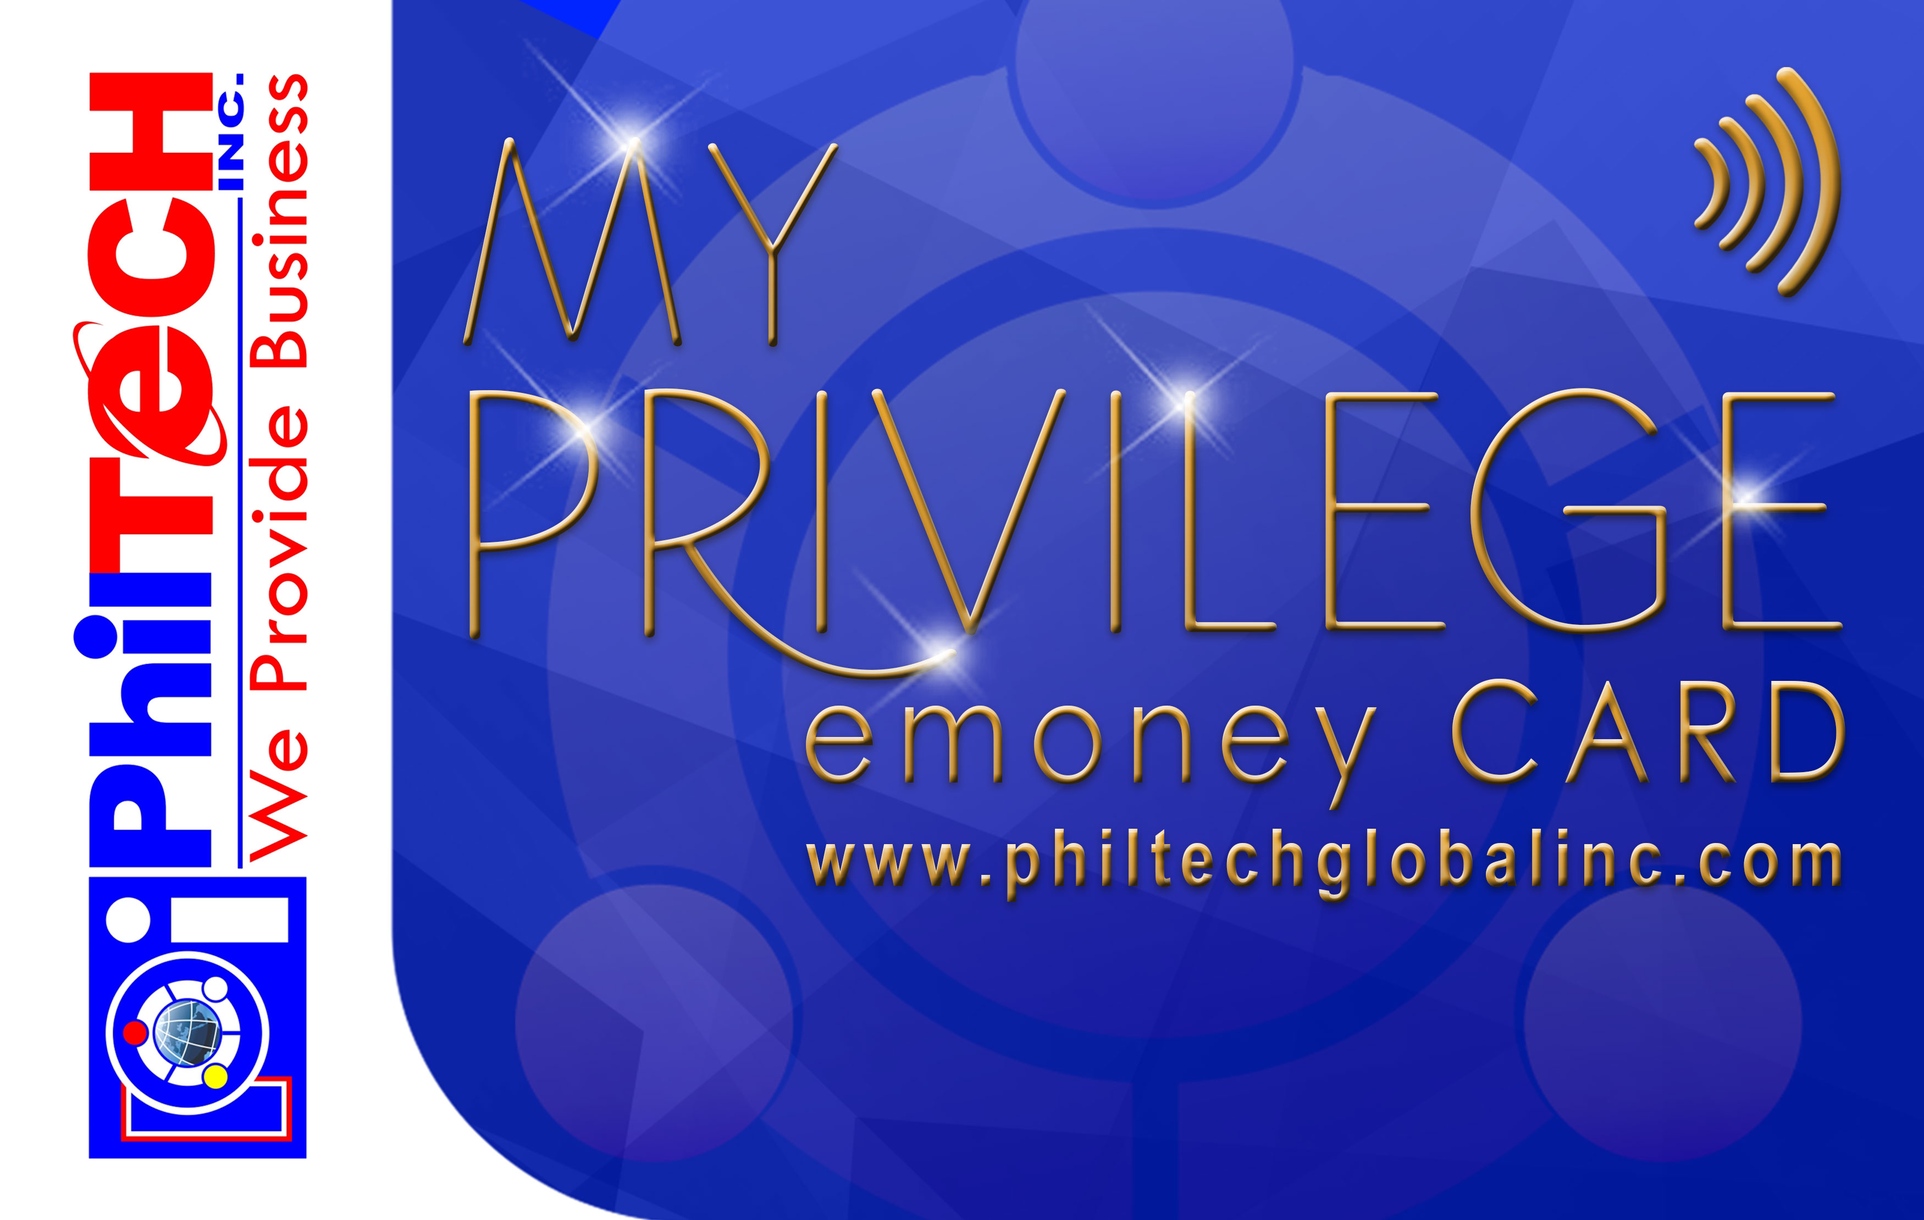
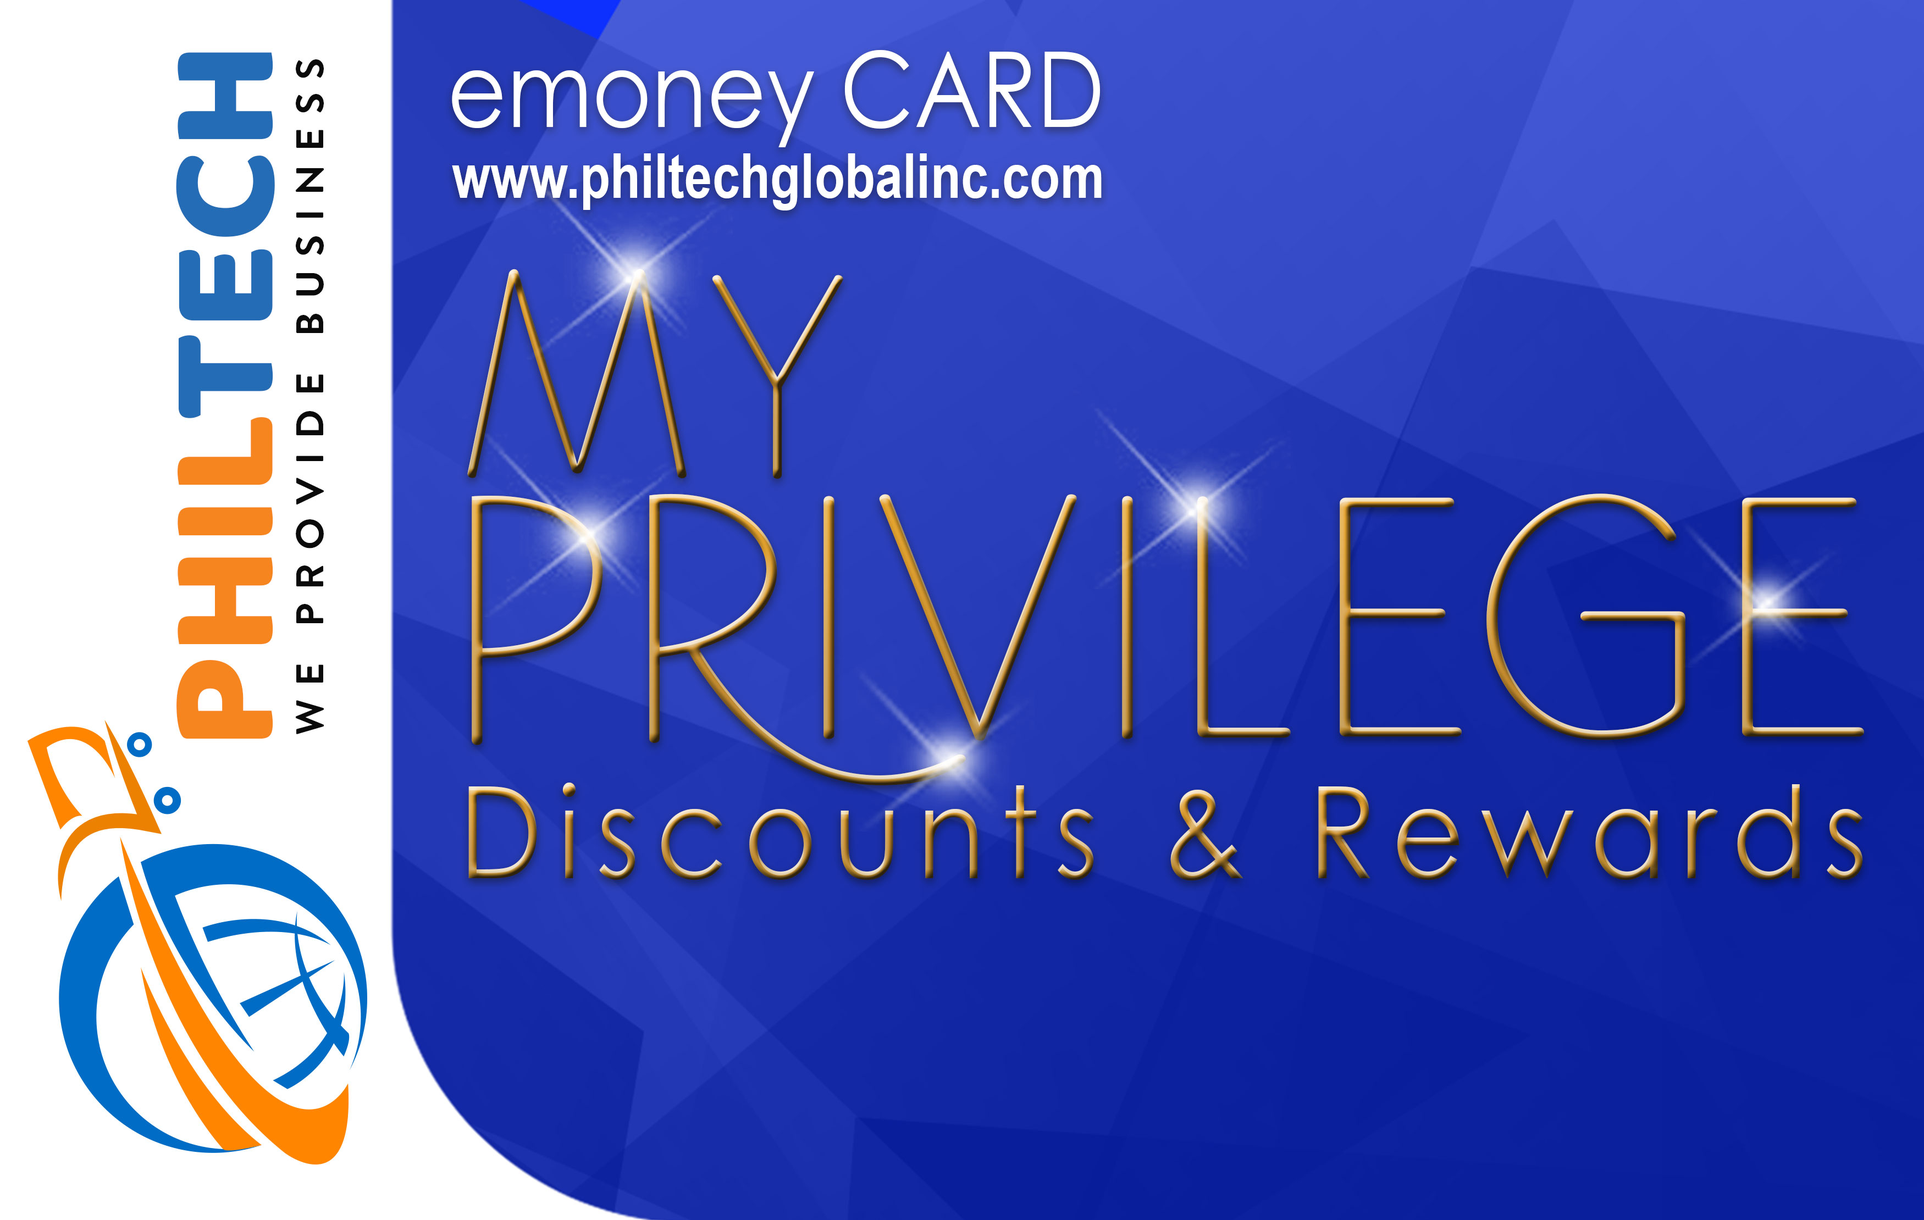
Privilege Done

diff --git a/resources/views/member/card/discount_card.blade.php b/resources/views/member/card/discount_card.blade.php
@@ -1,0 +1,188 @@
+<link rel="stylesheet" type="text/css" href="{{Request::input('pdf') == 'true' ? public_path() : ''}}/assets/card/style.css">
+<link href="https://fonts.googleapis.com/css?family=Poppins:300,600" rel="stylesheet"> 
+<div class="{{ Request::input('pdf') == 'true' ? '' : 'row' }} clearfix">
+
+{{-- <div class="{{ Request::input('pdf') == 'true' ? '' : 'col-md-6' }} clearfix" style="{{ Request::input('pdf') == 'true' ? 'margin-top: 450px;' : '' }}">
+	<div class="containers" style="overflow: hidden; {{ Request::input('pdf') == 'true' ? '-webkit-transform: scale(5,5); transform: scale(5,5);' : '' }} ;height: 276px; background-color: transparent; background-image: url('{{Request::input('pdf') == 'true' ? URL::to('/') : ''}}/assets/card/images/BG-{{ $color }}_2.jpg') !important;">
+		<div class="top-container clearfix">
+			<span class="website">{{ URL::to('/') }}</span>
+			<div class="logo"><img style="width: 200px;" src="{{Request::input('pdf') == 'true' ? public_path() : ''}}/assets/card/images/philtech-logo.png"></div>
+		</div>
+		<div class="mid-container clearfix" style="margin: 0; height: 149px;"><img style="display: block; width: 380px; margin-left: 15px;" src="{{Request::input('pdf') == 'true' ? public_path() : ''}}/assets/card/images/{{ $color }}-logo.png"></div>
+		<div class="bottom-container clearfix" style="margin-top: -7.5px;">
+			<div class="member" style="width: 65% !important">
+				<div class="member-label" style="padding: 0; font-weight: 400; font-size: 13px !important; ">Discount Card No.</div>
+				<div class="member-name">{{ $membership_code }}</div>
+			</div>
+			<div class="barcode">
+				<div class="barcodeimg" style="background-color: #fff; padding: 7.5px 0;"><img src="{{Request::input('pdf') == 'true' ? URL::to('/') : ''}}/barcode?text={{ $membership_code }}&size=35"></div>
+				<div class="barcodetxt" style="font-size: 8px; margin-top: -5px; padding-bottom: 5px;">
+					<span>Membership Code</span>
+					<span>{{ $membership_code }}</span>
+				</div>
+			</div>
+		</div>
+	</div>
+</div> --}}
+<div class="{{ Request::input('pdf') == 'true' ? '' : '' }} clearfix" style="{{ Request::input('pdf') == 'true' ? 'margin-top: 450px;' : '' }}">
+	<div class="containers" style="overflow: hidden; {{ Request::input('pdf') == 'true' ? '-webkit-transform: scale(5,5); transform: scale(5,5);' : 'margin-top: 0;' }} ;height: 276px; background-color: transparent; background-image: url('{{Request::input('pdf') == 'true' ? URL::to('/') : ''}}/assets/card/images/discount-cover.jpg') !important;">
+		<div class="top-container clearfix" style="opacity: 1;">
+			{{-- <span class="website">{{ URL::to('/') }}</span>
+			<div class="logo"><img style="width: 200px;" src="{{Request::input('pdf') == 'true' ? public_path() : ''}}/assets/card/images/philtech-logo.png"></div> --}}
+			<div class="barcode">
+				<div class="barcodeimg" style="background-color: #fff; padding: 7.5px 0;"><img src="{{Request::input('pdf') == 'true' ? URL::to('/') : ''}}/barcode?text={{ $membership_code }}&size=25"></div>
+				<div class="barcodetxt" style="font-size: 8px; margin-top: -5px; padding-bottom: 5px;">
+					{{-- <span>Membership Code</span> --}}
+					<span>{{ $membership_code }}</span>
+				</div>
+			</div>
+		</div>
+		<div class="mid-container clearfix" style="opacity: 0; margin: 0; height: 149px;"><img style="display: block; width: 380px; margin-left: 15px;" src="{{Request::input('pdf') == 'true' ? public_path() : ''}}/assets/card/images/{{ $color }}-logo.png"></div>
+		<div class="bottom-container clearfix" style="margin-top: 10px; margin-left: 110px;">
+			<div class="member">
+				<div class="member-label" style="letter-spacing: 0; padding: 0; font-weight: 700; font-size: 20px !important; line-height: 20px;">{{ $name }}</div>
+				<div class="member-name" style="line-height: 20px;">ISSUED: {{ $now }}</div>
+			</div>
+			<div class="barcode" style="opacity: 0;">
+				<div class="barcodeimg" style="background-color: #fff; padding: 7.5px 0; margin-top: 10px;"><img src="{{Request::input('pdf') == 'true' ? URL::to('/') : ''}}/barcode?text={{ $membership_code }}&size=25"></div>
+				<div class="barcodetxt" style="font-size: 8px; margin-top: -5px; padding-bottom: 5px;">
+					<span>Membership Code</span>
+					<span>{{ $membership_code }}</span>
+				</div>
+			</div>
+		</div>
+	</div>
+</div>
+
+{{-- <div class="{{ Request::input('pdf') == 'true' ? '' : 'col-md-6' }} clearfix" style="{{ Request::input('pdf') == 'true' ? 'margin-top: 1000px;' : '' }}">
+	<div class="containers" style="{{ Request::input('pdf') == 'true' ? '-webkit-transform: scale(5,5); transform: scale(5,5);' : '' }} height: 276px; background-color: transparent; background-image: url('{{Request::input('pdf') == 'true' ? URL::to('/') : ''}}/assets/card/images/BG-{{ $color }}_2.jpg') !important;">
+		<div style="color: #fff; overflow: hidden;" >
+			<div class="clearfix" style="text-align: center; margin-top: -6px;">
+				<h1 class="clearfix" style="margin: auto; margin-bottom: 5px; width: 100%; max-width: 100%; font-weight: 600; font-size: 30px !important;" >TERMS AND CONDITION</h1>
+			</div>
+			<ol class="clearfix" style="padding-left: 20px; font-weight: 500; font-size: 11px; letter-spacing: 1px;">
+				<li style="margin-top: -5px;">The Cardholder agrees to be bound by the Terms and Conditions of the PhilTECH,Inc. Discount Program. Present this card when purchasing products or availing services in the Head Office, all BCO and Partner Merchants Nationwide.</li>
+				<li>This card must be sold at <span style="font-weight: 600; font-size: 12px;">{{Request::input('pdf') == 'true' ? '&nbsp;' : ''}}Php. 200.00</span> only. Selling this card at a higher cost is strictly prohibited as it is a violation of the policies of PhilTECH,Inc.</li>
+				<li>Transferable</li>
+				<li>Renewable after one (1) Year</li>
+				<li>Tampering of original signatures invalidates this Card.</li>
+			</ol>
+			<div class=" clearfix" style="margin-top: -3px !important;">
+				<div class="col-xs-6">
+					<img style="width: 100%;" src="{{Request::input('pdf') == 'true' ? public_path() : ''}}/assets/card/images/sign-1.jpg">
+				</div>
+				<div class="col-xs-6">
+					<img style="width: 100%;" src="{{Request::input('pdf') == 'true' ? public_path() : ''}}/assets/card/images/sign-2.jpg">
+				</div>
+			</div>
+		</div>
+	</div>
+	<br>
+</div> --}}
+
+<div class="{{ Request::input('pdf') == 'true' ? '' : '' }} clearfix" style="{{ Request::input('pdf') == 'true' ? 'margin-top: 1000px;' : '' }}">
+	<div class="containers" style="{{ Request::input('pdf') == 'true' ? '-webkit-transform: scale(5,5); transform: scale(5,5);' : 'margin-top: 15px;' }} height: 276px; background-color: transparent; background-image: url('{{Request::input('pdf') == 'true' ? URL::to('/') : ''}}/assets/card/images/discount-back.jpg') !important; background-size: contain; background-position: center;">
+		<div style="color: #fff; overflow: hidden; opacity: 0;" >
+			<div class="clearfix" style="text-align: center; margin-top: -6px;">
+				<h1 class="clearfix" style="margin: auto; margin-bottom: 5px; width: 100%; max-width: 100%; font-weight: 600; font-size: 30px !important;" >TERMS AND CONDITION</h1>
+			</div>
+			<ol class="clearfix" style="padding-left: 20px; font-weight: 500; font-size: 11px; letter-spacing: 1px;">
+				<li style="margin-top: -5px;">The Cardholder agrees to be bound by the Terms and Conditions of the PhilTECH,Inc. Discount Program. Present this card when purchasing products or availing services in the Head Office, all BCO and Partner Merchants Nationwide.</li>
+				<li>This card must be sold at <span style="font-weight: 600; font-size: 12px;">{{Request::input('pdf') == 'true' ? '&nbsp;' : ''}}Php. 200.00</span> only. Selling this card at a higher cost is strictly prohibited as it is a violation of the policies of PhilTECH,Inc.</li>
+				<li>Transferable</li>
+				<li>Renewable after one (1) Year</li>
+				<li>Tampering of original signatures invalidates this Card.</li>
+			</ol>
+			<div class=" clearfix" style="margin-top: -3px !important;">
+				<div class="col-xs-6">
+					<img style="width: 100%;" src="{{Request::input('pdf') == 'true' ? public_path() : ''}}/assets/card/images/sign-1.jpg">
+				</div>
+				<div class="col-xs-6">
+					<img style="width: 100%;" src="{{Request::input('pdf') == 'true' ? public_path() : ''}}/assets/card/images/sign-2.jpg">
+				</div>
+			</div>
+		</div>
+	</div>
+	<br>
+</div>
+
+</div>
+
+@if(Request::input('pdf') != 'true')
+<div class="col-md-12">
+	<hr>
+	<div class="col-md-3">
+		{{ $name }}
+		Status : @if($info->slot_card_printed == 1) PRINTED @else PENDING @endif
+	</div>
+	<div class="col-md-3">
+		<a class="btn btn-primary" href="/member/mlm/card/image/{{$info->slot_id}}?pdf=true" target="_blank">Export to JPG</a>
+	</div>
+	<div class="col-md-3">
+		<form class="global-submit" method="post" action="/member/mlm/card/done">
+		{!! csrf_field() !!}
+		<input type="hidden" name="slot_id" value="{{$info->slot_id}}">
+		<button class="btn btn-primary" @if($info->slot_card_printed == 1) disabled @endif >Mark Done</button>
+		</form>
+	</div>
+	<div class="col-md-3">
+	<form class="global-submit" method="post" action="/member/mlm/card/pending">
+		{!! csrf_field() !!}
+		<input type="hidden" name="slot_id" value="{{$info->slot_id}}">
+		<button class="btn btn-primary"  @if($info->slot_card_printed == 0) disabled @endif >Mark Pending</button>
+		</form>
+	</div>
+</div>
+@endif
+
+{{-- @if(Request::input('pdf') != 'true')
+<div class="col-md-12">
+	<div class="col-md-3">
+		{{name_format_from_customer_info($info)}}
+	</div>
+	<div class="col-md-3">
+		<a class="btn btn-primary" href="/member/mlm/card/image/discount/{{$info->discount_card_log_id}}?pdf=true" target="_blank">Export to JPG</a>
+	</div>
+	<div class="col-md-3">
+		<form class="global-submit" method="post" action="/member/mlm/card/pending/discount">
+		{!! csrf_field() !!}
+		<input type="hidden" name="discount_card_log_id" value="{{$info->discount_card_log_id}}">
+		<button class="btn btn-primary" @if($info->discount_card_log_issued== 0) disabled @endif >Mark as pending</button>
+		</form>
+	</div>
+	<div class="col-md-3">
+		<form class="global-submit" method="post" action="/member/mlm/card/done/discount">
+		{!! csrf_field() !!}
+		<input type="hidden" name="discount_card_log_id" value="{{$info->discount_card_log_id}}">
+		<button class="btn btn-primary" @if($info->discount_card_log_issued== 1) disabled @endif >Mark as Printed</button>
+		</form>
+	</div>
+</div> --}}
+
+<!-- <div class="col-md-12">
+	<hr>
+	<div class="col-md-3">
+		{{ $name }}
+		Status : @if($info->slot_card_printed == 1) PRINTED @else PENDING @endif
+	</div>
+	<div class="col-md-3">
+		<a class="btn btn-primary" href="/member/mlm/card/image/{{$info->slot_id}}?pdf=true" target="_blank">Export to JPG</a>
+	</div>
+	<div class="col-md-3">
+		<form class="global-submit" method="post" action="/member/mlm/card/done">
+		{!! csrf_field() !!}
+		<input type="hidden" name="slot_id" value="{{$info->slot_id}}">
+		<button class="btn btn-primary" @if($info->slot_card_printed == 1) disabled @endif >Mark Done</button>
+		</form>
+	</div>
+	<div class="col-md-3">
+	<form class="global-submit" method="post" action="/member/mlm/card/pending">
+		{!! csrf_field() !!}
+		<input type="hidden" name="slot_id" value="{{$info->slot_id}}">
+		<button class="btn btn-primary"  @if($info->slot_card_printed == 0) disabled @endif >Mark Pending</button>
+		</form>
+	</div>
+	
+	
+</div> -->
+{{-- @endif --}}

diff --git a/resources/views/member/card/backup_card2.blade.php b/resources/views/member/card/backup_card2.blade.php
@@ -1,0 +1,113 @@
+@if(Request::input('pdf') == 'true')
+<link rel="stylesheet" type="text/css" href="{{Request::input('pdf') == 'true' ? public_path() : ''}}/assets/card/style.css">
+<link href="https://fonts.googleapis.com/css?family=Open+Sans:400,700" rel="stylesheet">  
+@endif
+<div class="{{ Request::input('pdf') == 'true' ? '' : 'row' }} clearfix">
+<div class="clearfix" style="{{ Request::input('pdf') == 'true' ? 'margin-top: 450px;' : '' }}">
+	<div class="containers" style="overflow: hidden; {{ Request::input('pdf') == 'true' ? '-webkit-transform: scale(5,5); transform: scale(5,5);' : 'margin-top: 0;' }} ;height: 276px; background-color: transparent; background-image: url('{{Request::input('pdf') == 'true' ? URL::to('/') : ''}}/assets/card/images/BG-{{ $color }}.jpg') !important;">
+		<div class="top-container clearfix">
+			<span class="website" style="font-weight: 700; letter-spacing: 0px;">{{ URL::to('/') }}</span>
+			<div class="logo"><img style="width: 200px;" src="{{Request::input('pdf') == 'true' ? public_path() : ''}}/assets/card/images/philtech-logo-blue-2.png"></div>
+		</div>
+		<div class="mid-container clearfix" style="margin: 0; height: 149px;"><img style="display: block; width: 380px; margin-left: 10px;" src="{{Request::input('pdf') == 'true' ? public_path() : ''}}/assets/card/images/{{ $color }}-logo.png"></div>
+		<div class="bottom-container clearfix" style="margin-top: -7.5px;">
+			@if(strlen($name) <= 18)
+			<div class="member" style="width: 280px;">
+				<div class="member-name">{{ $name }}</div>
+				<div class="member-label" style="padding-left: 0;">ISSUED: <small>{{$now}}</small></div>
+			</div>
+			@else
+			<div class="member" style="width: 280px;">
+				<div class="member-name" style="font-size: 17px;">{{ $name }}</div>
+				<div class="member-label" style="padding-left: 0;">ISSUED: <small>{{$now}}</small></div>
+			</div>
+			@endif
+			<div class="barcode">
+				<div class="barcodeimg" style="background-color: #fff; padding: 7.5px 0;"><img src="{{Request::input('pdf') == 'true' ? URL::to('/') : ''}}/barcode?text={{ $membership_code }}&size=35"></div>
+				<div class="barcodetxt" style="font-size: 8px; margin-top: -5px; padding-bottom: 5px;">
+					<span>Membership Code</span>
+					<span>{{ $membership_code }}</span>
+				</div>
+			</div>
+		</div>
+	</div>
+</div>
+
+<div class="clearfix" style="{{ Request::input('pdf') == 'true' ? 'margin-top: 1000px;' : '' }}">
+	<div class="containers" style="{{ Request::input('pdf') == 'true' ? '-webkit-transform: scale(5,5); transform: scale(5,5);' : 'margin-top: 15px;' }} height: 276px; background-color: transparent; background-image: url('{{Request::input('pdf') == 'true' ? URL::to('/') : ''}}/assets/card/images/BG-{{ $color }}.jpg') !important;">
+		<div class="backdesu">
+			<div style="font-weight: 600;"><center>For inquiries, email at philtechglobalmainoffice@gmail.com</center></div>
+			<div class="signature">
+			</div>
+			<div class="sign-label">Cardholder's Signature</div>
+			<div class="info">
+				<table>
+					<tbody>
+						<tr>
+							<td style="width: 100px; padding-left: 5px;">Date Activated:</td>
+							<td>{{$info->slot_created_date}}</td>
+						</tr>
+					</tbody>
+				</table>
+				<table>
+					<tbody>
+						<tr>
+							<td style="width: 70px; padding-left: 5px;">Phone No.</td>
+							<td>{{$number}}</td>
+						</tr>
+					</tbody>
+				</table>
+				<table>
+					<tbody>
+						<tr>
+							<td style="width: 130px; padding-left: 5px;">Complete Address:</td>
+							<td>{{ mb_strimwidth($address, 0, 45, "...")}}</td>
+						</tr>
+					</tbody>
+				</table>
+				<table>
+					<tbody>
+						<tr>
+							<td style="width: 320px; padding-left: 5px;">In case of loss please notify PHILTECH Head Office:</td>
+							<td> <small>(+63)9175422614</small></td>
+						</tr>
+					</tbody>
+				</table>
+			</div>
+			<div style="font-weight: 700; color: @if($color == 'gold') black @else white @endif ; font-size: 10px; text-align: justify; margin-top: 3px; letter-spacing: 0.5px;" style="margin-top: 5px;  ">By signing this card, the Cardholder agrees to be bound by the terms and conditions of the VIP Loyalty Program. Present this card along with the valid ID when purchasing or availing privilleges and benefits in the head office, all BCO and partner merchants nationwide.</div>
+			<div style="color: white; font-weight: 600; font-size: 15px; text-align: center; margin-top: 8px;">Non-Transferable&nbsp;&nbsp;&#149;&nbsp;&nbsp;No Annual Fee&nbsp;&nbsp;&#149;&nbsp;&nbsp;No Expiry</div>
+			<div class="text-right" style="font-weight: 600; color: @if($color == 'gold') black @else white @endif ; font-size: 12px;">Tampering invalidates the card.</div>
+		</div>
+	</div>
+	<br>
+</div>
+
+</div>
+@if(Request::input('pdf') != 'true')
+<div class="col-md-12">
+	<hr>
+	<div class="col-md-3">
+		{{ $name }}
+		Status : @if($info->slot_card_printed == 1) PRINTED @else PENDING @endif
+	</div>
+	<div class="col-md-3">
+		<a class="btn btn-primary" href="/member/mlm/card/image/{{$info->slot_id}}?pdf=true" target="_blank">Export to JPG</a>
+	</div>
+	<div class="col-md-3">
+		<form class="global-submit" method="post" action="/member/mlm/card/done">
+		{!! csrf_field() !!}
+		<input type="hidden" name="slot_id" value="{{$info->slot_id}}">
+		<button class="btn btn-primary" @if($info->slot_card_printed == 1) disabled @endif >Mark Done</button>
+		</form>
+	</div>
+	<div class="col-md-3">
+	<form class="global-submit" method="post" action="/member/mlm/card/pending">
+		{!! csrf_field() !!}
+		<input type="hidden" name="slot_id" value="{{$info->slot_id}}">
+		<button class="btn btn-primary"  @if($info->slot_card_printed == 0) disabled @endif >Mark Pending</button>
+		</form>
+	</div>
+	
+	
+</div>
+@endif

diff --git a/app/Http/Controllers/Member/MLM_CardController.php b/app/Http/Controllers/Member/MLM_CardController.php
@@ -51,6 +51,7 @@ class MLM_CardController extends Member
             {
                 $color = 'discount';
             }
+
             $name = name_format_from_customer_info($slot);
             $membership_code = $slot->slot_no;    
             $data['color'] = $color;
@@ -133,9 +134,17 @@ class MLM_CardController extends Member
         ->where('tbl_mlm_slot.slot_id', $slot_id)
         ->leftjoin('tbl_customer_other_info', 'tbl_customer_other_info.customer_id', '=', 'tbl_mlm_slot.slot_owner')
         ->leftjoin('tbl_customer_address', 'tbl_customer_address.customer_id', '=', 'tbl_mlm_slot.slot_owner')
-            
         ->membership()->customer()->first();
-        $card = Cards::card_all($slot);
+
+
+        if ($slot->membership_name == "Privilege Card") 
+        {
+            $card = Cards::discount_card2($slot);
+        }
+        else
+        {
+            $card = Cards::card_all($slot);
+        }
 
         return Pdf_global::show_image($card);
 	}

diff --git a/app/Globals/Cards.php b/app/Globals/Cards.php
@@ -54,6 +54,19 @@ class Cards
         // $data['now'] = Carbon::parse($info->slot_card_issued)->format('m/d/Y');
         return view("mlm.card.discount_card", $data);
     }
+    public static function discount_card2($info)
+    {
+        // dd($info);
+        $data['color'] = 'discount';
+        $data['name'] = name_format_from_customer_info($info);
+        $data['membership_code'] = $info->slot_no;    
+        $data['info'] = $info;
+        $data['number'] = phone_number($info);
+        $data['address'] = address_customer_info($info);
+        $data['now'] = Carbon::now()->format('m/d/Y');
+        // $data['now'] = Carbon::parse($info->slot_card_issued)->format('m/d/Y');
+        return view("member.card.discount_card", $data);
+    }
     public static function card_all($info)
     {
         if($info->membership_name == 'V.I.P Silver')

diff --git a/resources/views/member/card/view_table.blade.php b/resources/views/member/card/view_table.blade.php
@@ -4,7 +4,11 @@
 		<h4 class="modal-title">{{ $membership->membership_name }}</h4>
 	</div>
 	<div class="modal-body clearfix">
-		@include("member.card.card")
+		@if($color == "discount")
+			@include("member.card.discount_card")
+		@else
+			@include("member.card.card")
+		@endif
 	</div>
 	<div class="modal-footer">
 		<button type="button" class="btn btn-def-white btn-custom-white" data-dismiss="modal">Close</button>
